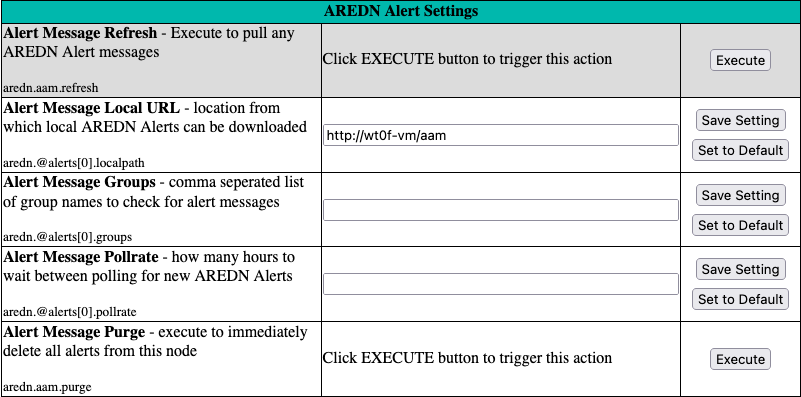
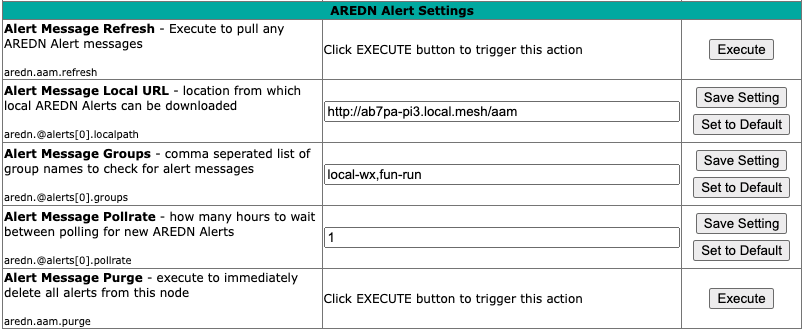
minor fixes for group alert section

diff --git a/arednGettingStarted/advanced_config.rst b/arednGettingStarted/advanced_config.rst
@@ -615,30 +615,30 @@ Alert Message Local URL
 
   A local message repository should be configured on a mesh-connected web server which allows nodes to query the URL you entered. No Internet access is required for this feature to work as designed. You can consult with your local web server administrator in order to obtain the correct URL for the local message repository. Use the following file naming convention on the web server:
 
-  - Create text files for individual nodes by using only lowercase characters with the exact node name, followed by the ``.txt`` extension as shown below.
+  - Create text files for individual node messages by using only lowercase characters with the exact node name, followed by the ``.txt`` extension as shown below. Whitespace characters are not allowed in node names.
+  - Create text files for group messages by using only lowercase characters with the group name, followed by the ``.txt`` extension. Whitespace characters are not allowed in group names.
   - To create a broadcast message intended for all local nodes, enter your message text in a file named ``all.txt`` using only lowercase characters for the filename.
 
   .. image:: _images/url-content.png
      :alt: Local Alert Message Repository Content
      :align: center
 
-|
 
   It is possible to include HTML tags in your message text, such as using the ``<br />`` tag to display subsequent text on the next line. However, it is best practice to keep alert messages short in order to minimize the height of the alert banner displayed on node webpages.
 
 Alert Message Groups
-  In addition to local alert messages, it is possible to receive group alert messages. Group alert messages allow node operators to organize the mesh network into administrative/geographical domains or alert type by free form group names. Multiple group names can be added to this field as a comma seperated list. It is highly advisable that group name *not* contain spaces.
+  In addition to local alert messages, it is possible to receive group alert messages. Group alert messages allow node operators to organize the mesh network into administrative/geographical domains or alert types using group labels. Multiple group names can be added to this field as a comma separated list.
 
-  Group alerts should be considered by the network management team to create a consistant alert structure and types. The following are some examples to consider:
+  Group alerts could be used by local operators to create a consistent alert structure. The following are some examples:
 
-  - Geographic regions (States, ARRL sections, large cities, etc.)
-  - Connection types (i.e. backbone, leaf nodes, tunnels)
-  - Infrastructure changes
+  - Geographic regions (State, county, ARRL section, neighborhood)
+  - Connection types (backbone, leaf nodes, tunnels)
+  - Infrastructure *Change Management* notices
   - Weather alerts
   - Wildfire, flooding, tsunami or volcano alerts
-  - SKYWARN activations / DHS threat level
+  - SKYWARN activations, DHS threat level
 
-  The group alert messages are retrieved from the web server specified by the local URL setting. Similarly to how the local alert messages are created, the group alerts need to be stored in a file named after the group name in all lower case with a ``.txt`` extension.
+  The group alert messages are retrieved from the web server specified in the local URL field. Alerts for a group are stored in a file named with the group name in all lowercase and a ``.txt`` extension as described above.
 
 Alert Message Pollrate
   This field allows you to set the polling rate or interval in hours at which the node will check for message updates. The default polling rate is once every 12 hours, but you can make this value smaller if you want your node to check for updates more frequently.
